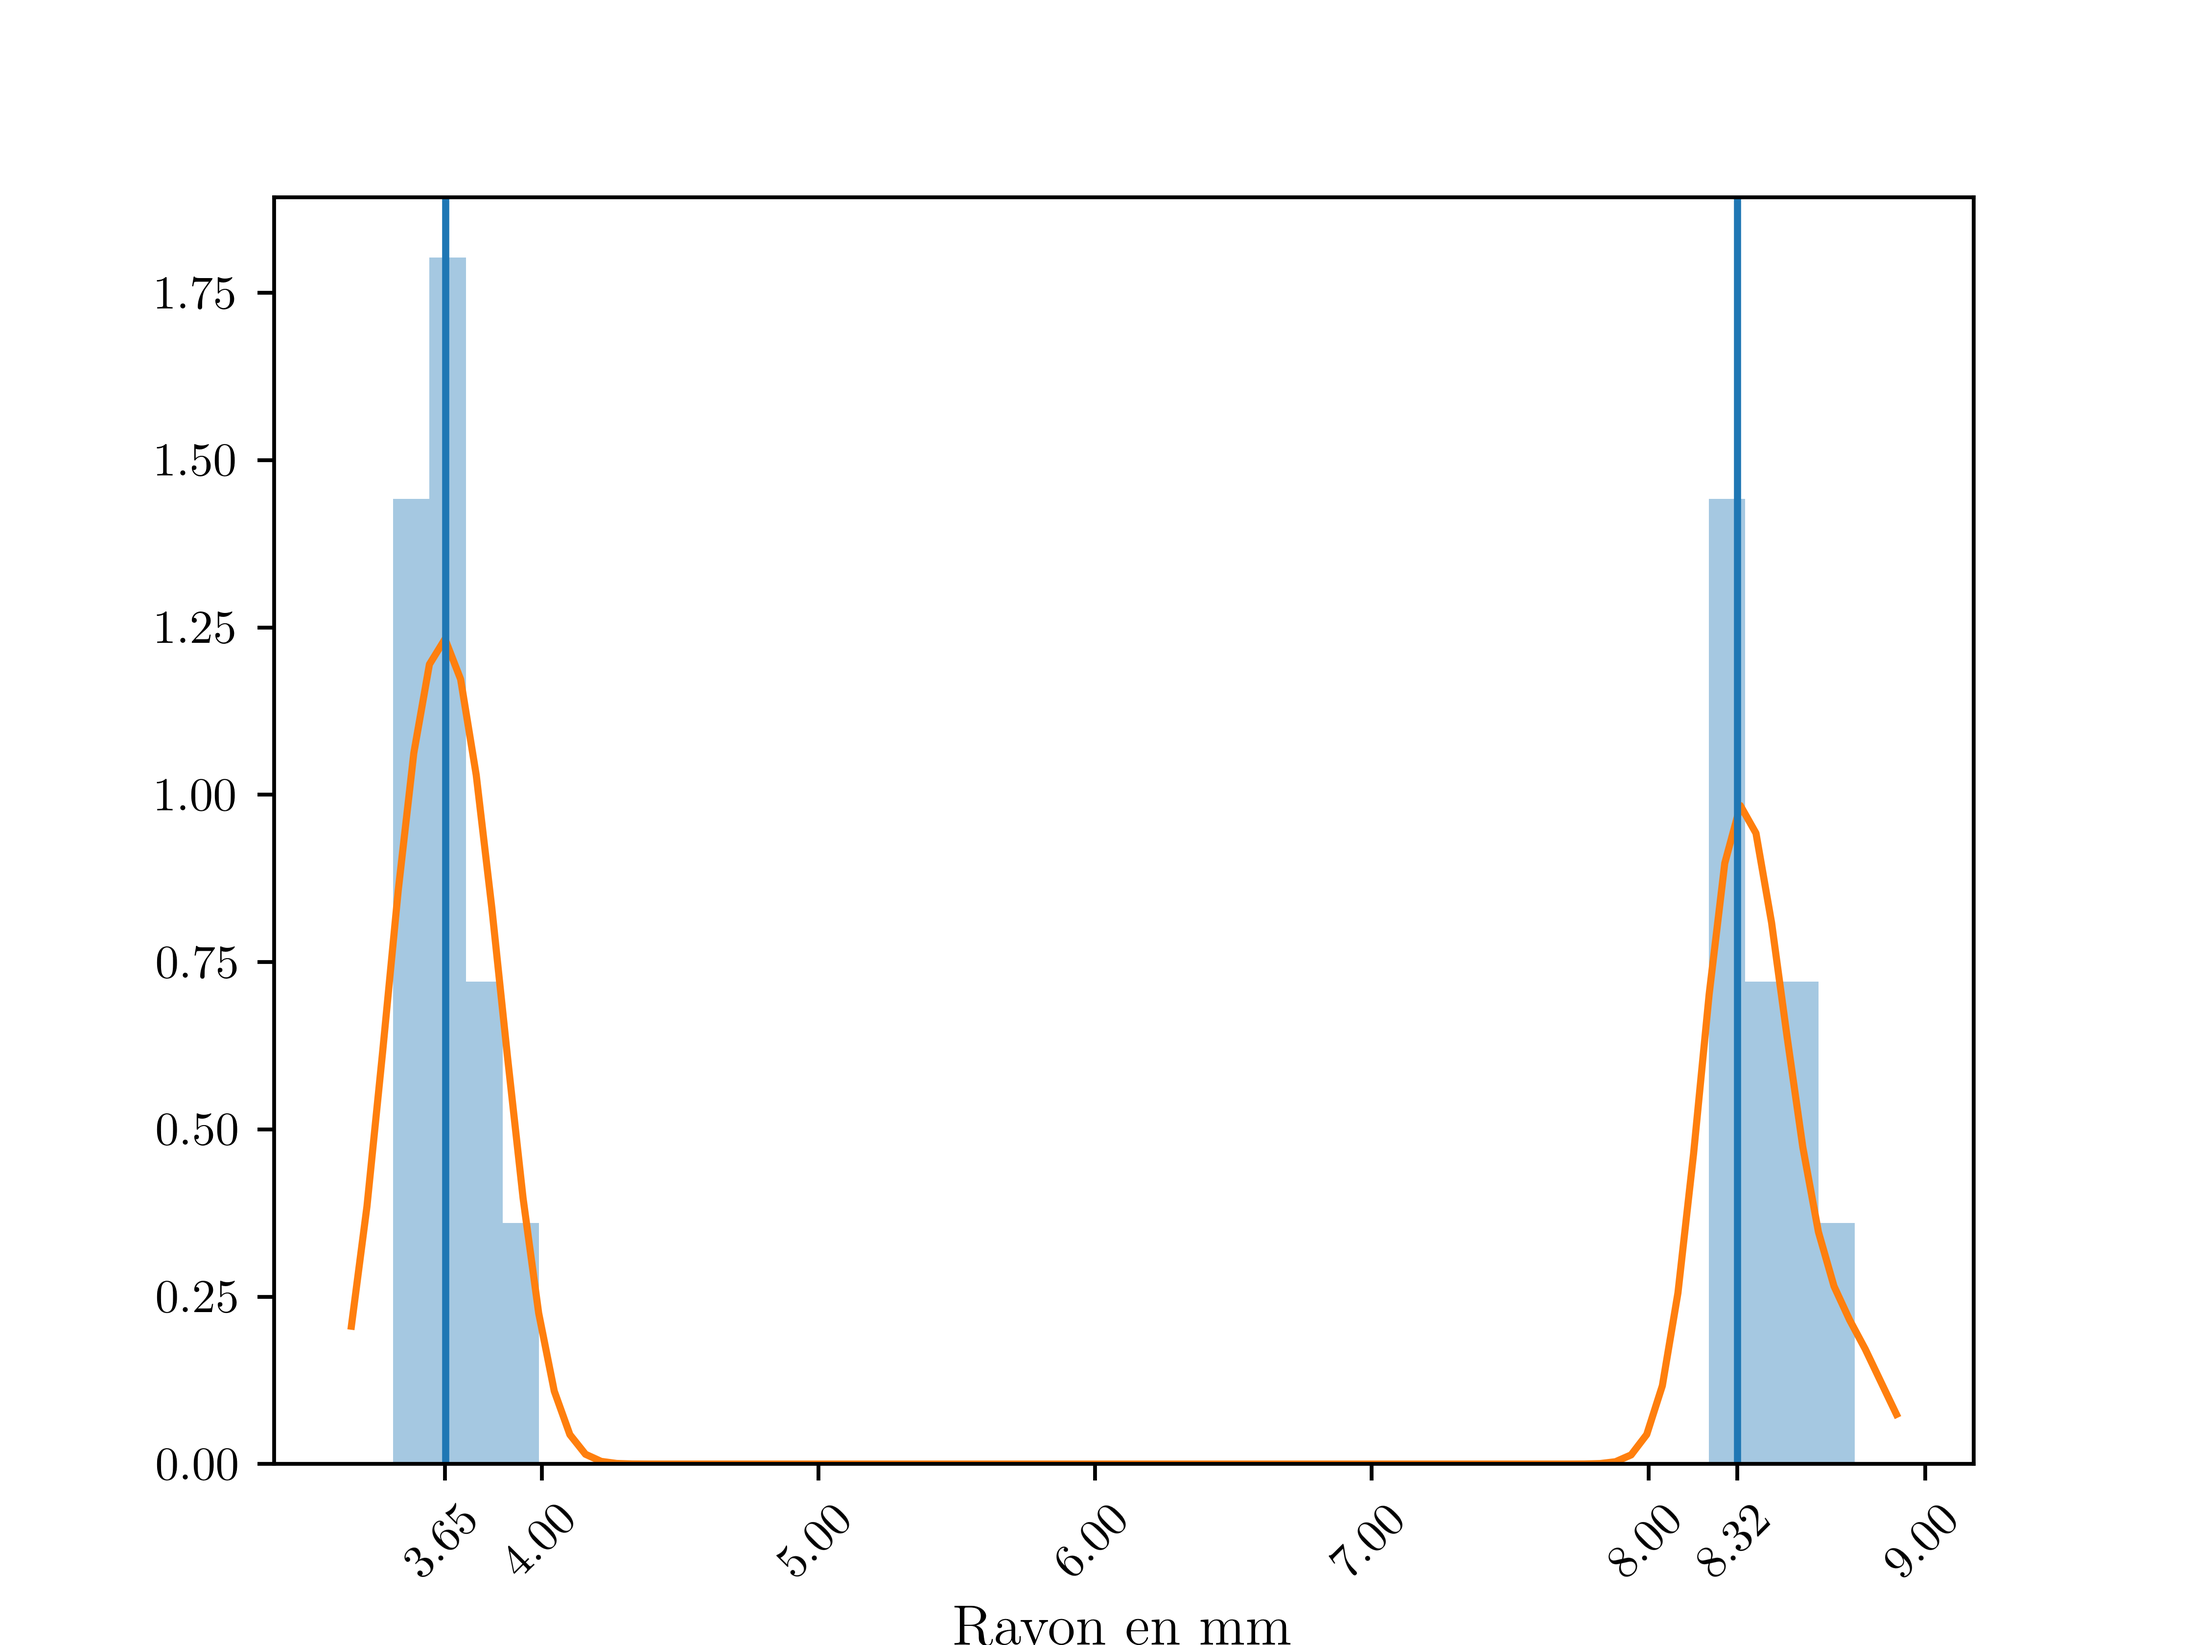
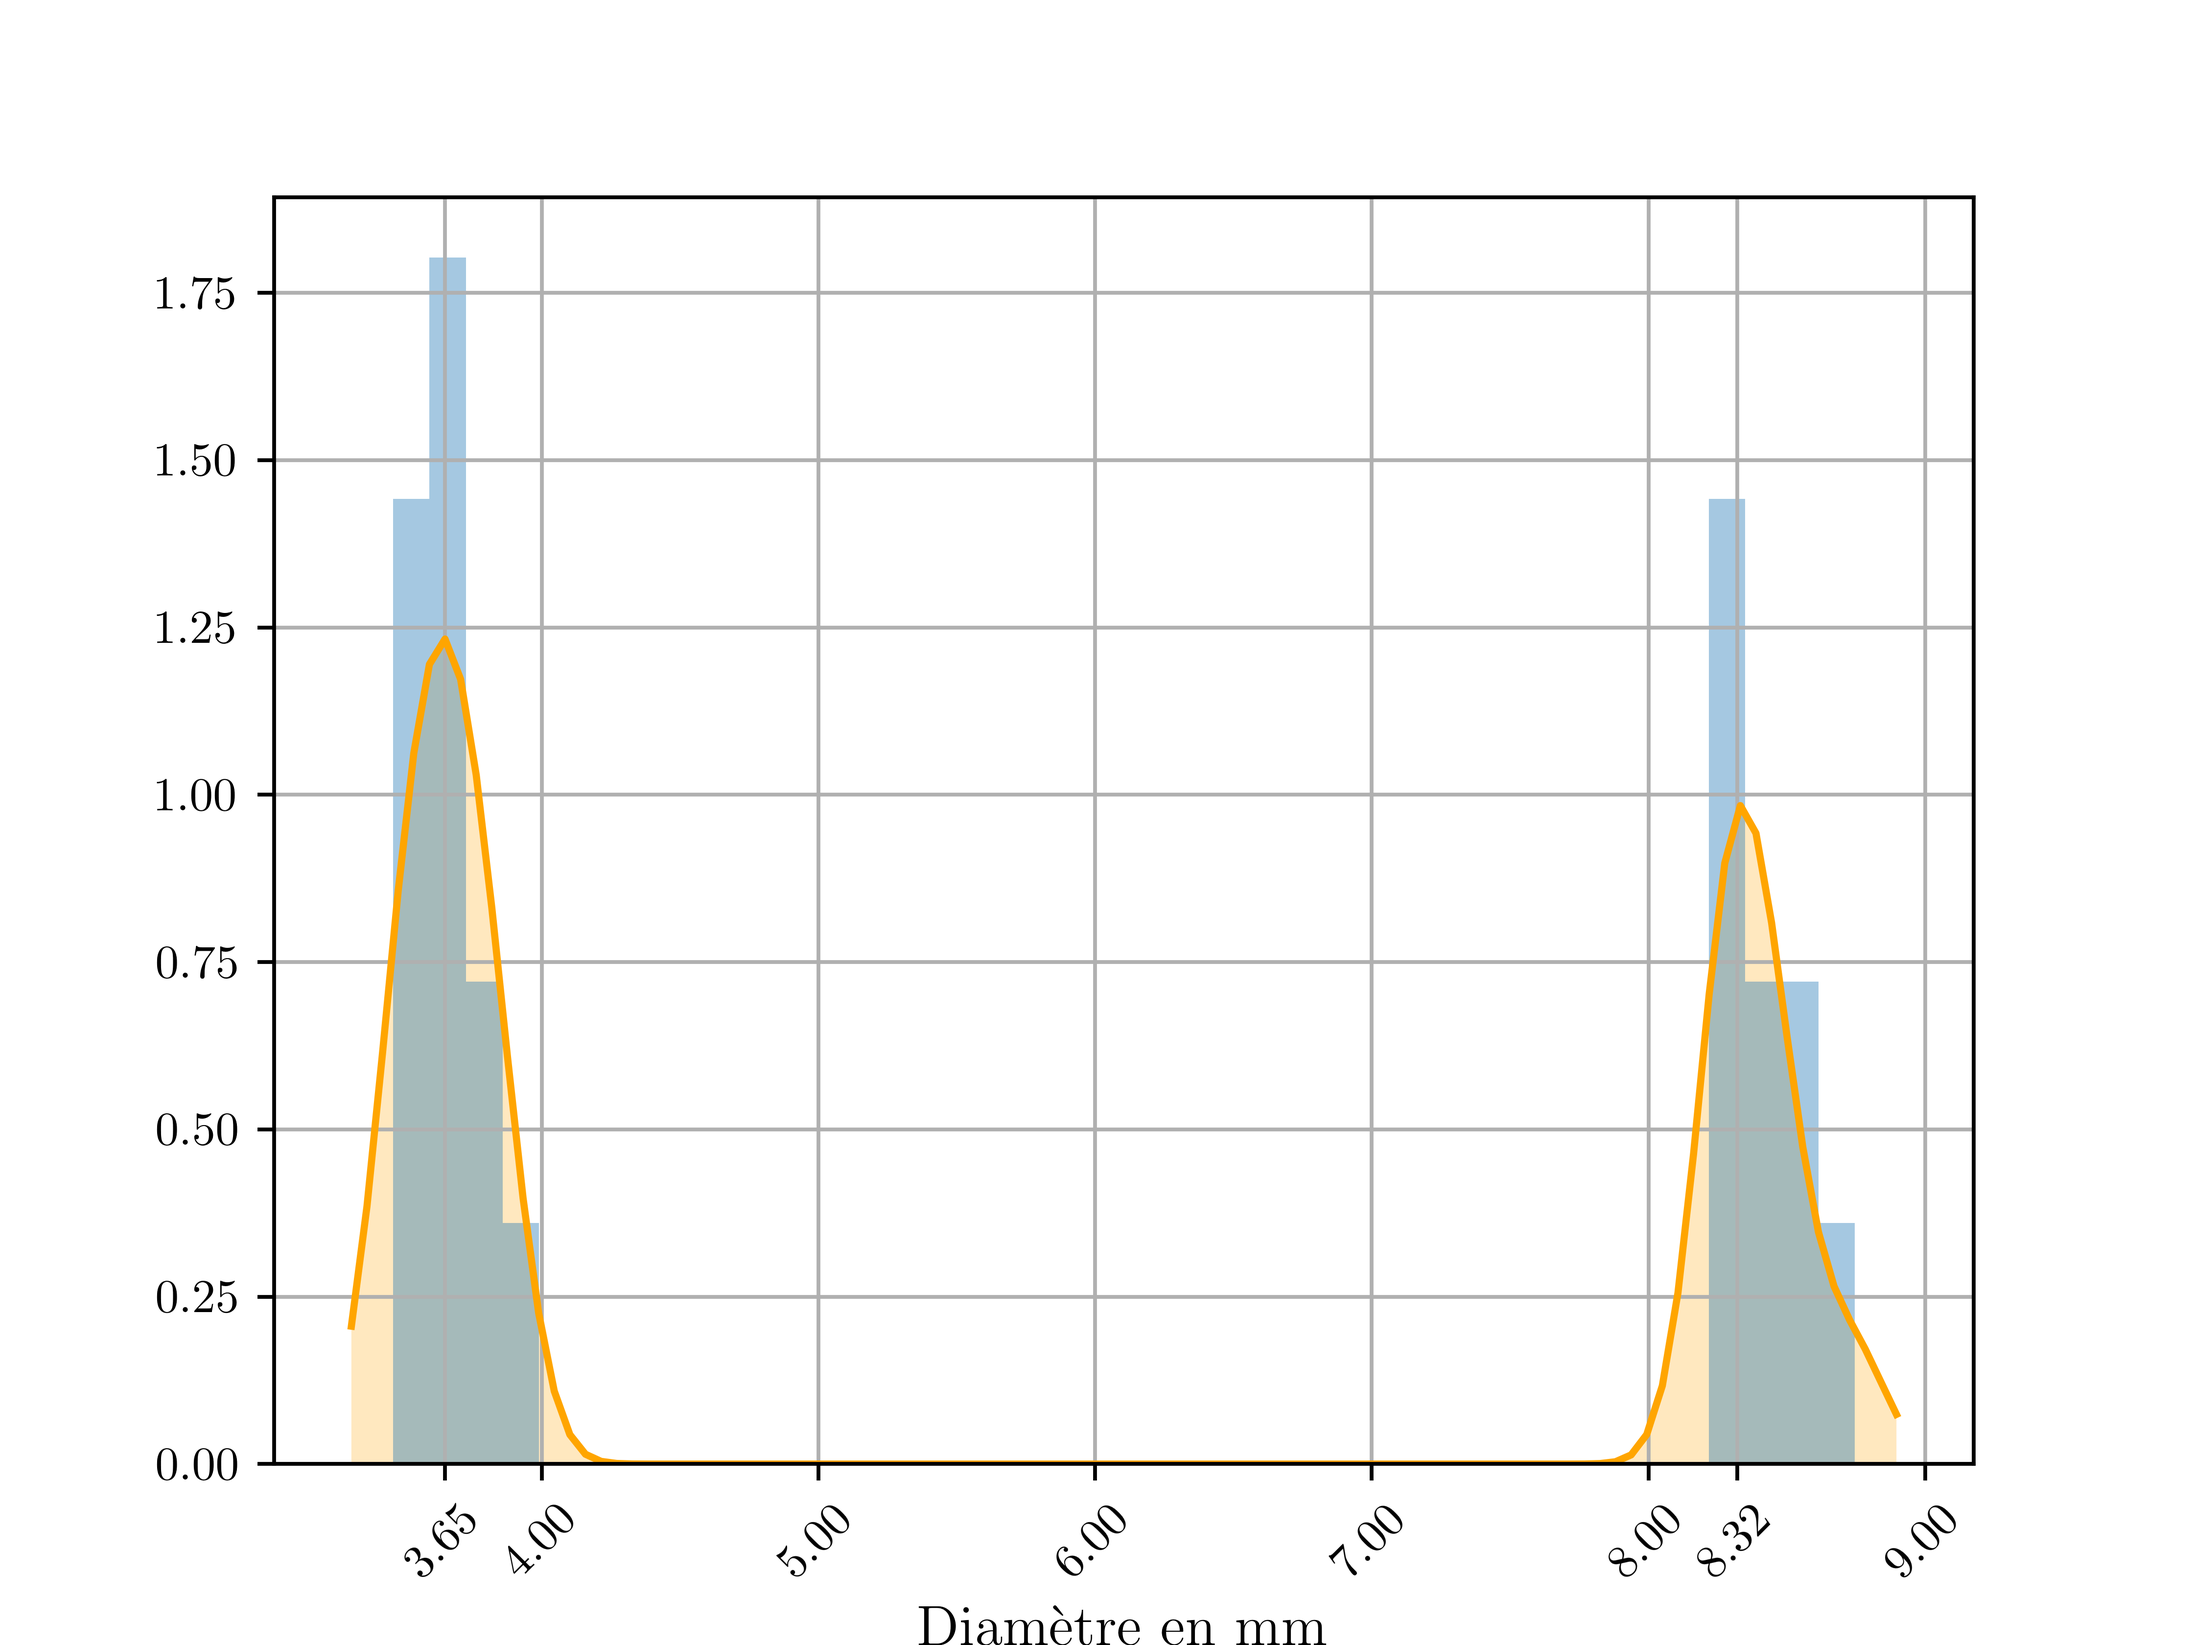
dim. 24 mars 14:16

diff --git a/Data/graphs/Fmf.py b/Data/graphs/Fmf.py
@@ -1,0 +1,64 @@
+# -*- coding: utf-8 -*-
+
+import numpy as np;
+import matplotlib;
+import matplotlib.pyplot as plt;
+from matplotlib import rc
+
+rc('font',**{'family':'serif','serif':['Helvetica']})
+## for Palatino and other serif fonts use:
+#rc('font',**{'family':'serif','serif':['Palatino']})
+rc('text', usetex=True)
+
+matplotlib.rcParams['text.usetex'] = True;
+matplotlib.rcParams['text.latex.unicode'] = True;
+
+load = np.loadtxt;
+
+plot = plt.plot;
+
+error = plt.errorbar;
+
+xlabel = plt.xlabel;
+
+ylabel = plt.ylabel;
+
+show = plt.show;
+
+set_xlabel = plt.xlabel;
+
+set_ylabel = plt.ylabel;
+
+grid = plt.grid;
+
+Data = load("./mort_40Hz.txt");
+
+X	= Data[:,0];
+X_error	= Data[:,1];
+Y	= Data[:,2];
+Y_error	= Data[:,3];
+error(X, Y, xerr=X_error, yerr=Y_error, fmt='.',capsize=2.5);
+
+Data = load("./mort_60Hz.txt");
+
+X	= Data[:,0];
+X_error	= Data[:,1];
+Y	= Data[:,2];
+Y_error	= Data[:,3];
+error(X, Y, xerr=X_error, yerr=Y_error, fmt='.',capsize=2.5);
+
+Data = load("./mort_100Hz.txt");
+
+X	= Data[:,0];
+X_error	= Data[:,1];
+Y	= Data[:,2];
+Y_error	= Data[:,3];
+error(X, Y, xerr=X_error, yerr=Y_error, fmt='.',capsize=2.5);
+
+set_xlabel(r'Accélération en ${\gamma_m/g}$', fontsize=12);
+set_ylabel(r'Diamètre en mm', fontsize=12);
+
+
+grid(True);
+plt.savefig('Frontièremorts.png', dpi=700);
+show();

diff --git a/Data/graphs/Radius.py b/Data/graphs/Radius.py
@@ -38,18 +38,18 @@ Data = load("./Radius.txt");
 X = Data[:];
 
 sns.distplot(X, norm_hist=True ,bins=40,kde=False);
-sns.kdeplot(X, bw=.05);
-plt.axvline(x=3.65175);
-plt.axvline(x=8.32);
+sns.kdeplot(X, bw=.05, shade=True, color="orange");
+#plt.axvline(x=3.65175);
+#plt.axvline(x=8.32);
 
 x = [3.65,4,5,6,7,8,8.32,9];
 
 plt.xticks(x,rotation=45)
 
-set_xlabel(r'Rayon en mm', fontsize=12)
+set_xlabel(r'Diamètre en mm', fontsize=12)
 #set_ylabel(r'Accélération en ${\gamma_m/g}$', fontsize=12)
 
-#grid(True);
+grid(True);
 
 plt.savefig('Radius.png', dpi=700);
 show();
